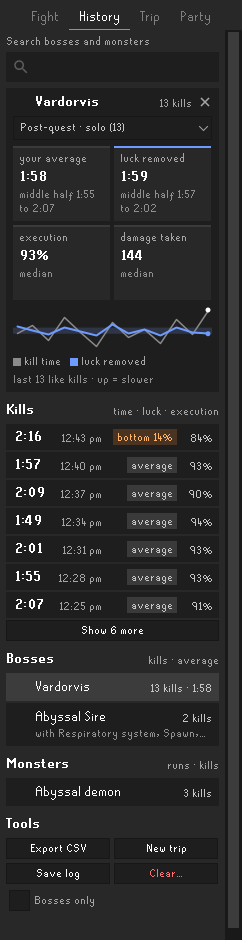
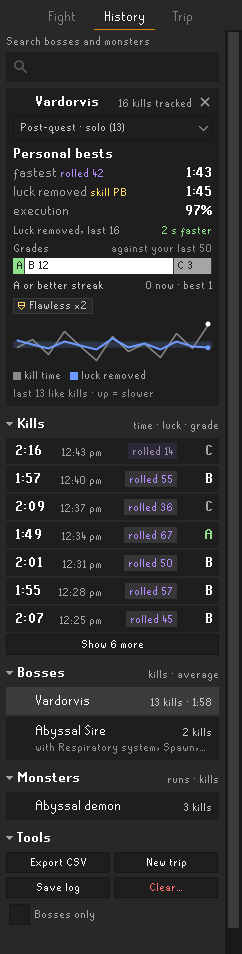
T-197: README pictures from the frozen master: the kill card after and live, History's progress top
One Graardor example throughout (kill 412, grade A, rolled 46); the live card is its own picture, and the
GIF follows the same kill. History's top uses the Vardorvis progress example (T-190), the one record the
side panel's examples have.

Claude-Session: https://claude.ai/code/session_01X18etdM16w4AUQNJwybjo9

diff --git a/src/test/java/com/pvmlogs/ReadmePictures.java b/src/test/java/com/pvmlogs/ReadmePictures.java
@@ -81,11 +81,27 @@ public final class ReadmePictures
 		png(out, "overlay-ruled-kill", overlays(ruledKill()));
 		png(out, "overlay-loadout", overlays(LedgerRows.loadout(g.versus(hammer()), false)));
 
-		png(out, "panel-fight", SidePanelPictures.render(g.panel, 1));
-		png(out, "panel-history", SidePanelPictures.renderHistory(false, 1));
+		png(out, "panel-fight", fightTab(g.panel));
+		png(out, "panel-fight-live", g.live);
+		// T-197: History's top as progress (T-190), from a record (T-187), as a new install with Celebrations on shows it.
+		png(out, "panel-history", SidePanelPictures.renderHistory(SidePanelProgressExamples.source(
+			SidePanelHistoryExamples.history(), SidePanelProgressExamples.vardorvis()), t -> { }, 1));
 		png(out, "panel-trip", SidePanelPictures.renderTrip(SidePanelExamples.trip(), 1));
 
 		gif(out.resolve("panel-fight-live.gif"), killFrames());
+	}
+
+	/**
+	 * T-197: the Fight tab as a new install shows it: the panel's folds follow Celebrations, as the setting drives both in
+	 * game (the same steps as SidePanelPictures' own Celebrations renders).
+	 */
+	static BufferedImage fightTab(SidePanelModel.Input in)
+	{
+		final PvmPerformancePanel panel = new PvmPerformancePanel(null, null, null, null);
+		panel.setCelebrations(in.celebrations);
+		panel.setText(false, false);
+		panel.apply(new PanelSnapshot(SidePanelModel.fight(in), null, SidePanelParty.party(new SidePanelParty.Input())));
+		return SidePanelPictures.draw(panel.tabs(), panel.fightTab(), 1);
 	}
 
 	// ---- Overlays ----
@@ -105,6 +121,11 @@ public final class ReadmePictures
 		final List<LedgerRows.Row> mid;
 		final List<LedgerRows.Row> dead;
 		final SidePanelModel.Input panel;
+		/**
+		 * T-197: the Fight tab's live kill card, about half way through the same kill, drawn then: the input reads the kill
+		 * as it goes on.
+		 */
+		final BufferedImage live;
 		private final Fight fight;
 
 		Graardor()
@@ -120,6 +141,7 @@ public final class ReadmePictures
 			final int drained = kill.defenceNow();
 			mid = LedgerRows.build(LedgerRows.of(kill.room), LedgerRows.State.fight(kill.boss, false, false, false)
 				.withDrain(new LedgerRows.LiveDrain(drained, DEFENCE, 0, MAGIC, MAGIC, 0)), all);
+			live = fightTab(SidePanelKillCardExamples.on(kill.input(new SidePanelWeaponRows())));
 			while (!kill.over())
 			{
 				kill.run(1);
@@ -136,6 +158,23 @@ public final class ReadmePictures
 			panel.killed = true;
 			panel.endMillis = kill.now();
 			panel.average = usual;
+			// T-197: the kill card (T-188) as a new install shows it, Celebrations on, with an illustrative record: KC 412,
+			// your PB 0:31, the 4th fastest of 23 kills tracked, an A (top 15% of your last 23), 3 ticks from an S, and
+			// the badges this kill earns by the record's rules (T-192).
+			SidePanelKillCardExamples.on(panel);
+			panel.kc = 412;
+			final SidePanelModel.Standing st = new SidePanelModel.Standing();
+			st.previousBestClock = 31.2;
+			st.rank = 4;
+			st.ranked = 23;
+			st.grade = "A";
+			st.basis = "top 15% of last 23";
+			st.ticksToNext = 3;
+			st.next = "S";
+			st.previousBestLuckRemoved = 33.0;
+			st.streak = 2;
+			panel.standing = st;
+			SidePanelKillCardExamples.recorded(panel);
 		}
 
 		/** The DPS overlay's `vs` line (T-073), named and coloured as the plugin does it for this fight. */
@@ -301,18 +340,20 @@ public final class ReadmePictures
 	 */
 	static List<Frame> killFrames()
 	{
-		final Kill kill = new Kill();
+		// T-197: the same Graardor kill as the other pictures, with the kill card (Celebrations on, a new install's default).
+		final Kill kill = Kill.graardor();
 		final SidePanelWeaponRows rows = new SidePanelWeaponRows();
 		final PvmPerformancePanel panel = new PvmPerformancePanel(null, null, null, null);
+		panel.setCelebrations(true);
 		final List<BufferedImage> images = new ArrayList<>();
 		while (!kill.over())
 		{
 			kill.run(PvmPerformancePanel.UPDATE_TICKS);
-			panel.apply(new PanelSnapshot(SidePanelModel.fight(kill.input(rows)), null));
+			panel.apply(new PanelSnapshot(SidePanelModel.fight(SidePanelKillCardExamples.on(kill.input(rows))), null));
 			images.add(SidePanelPictures.draw(panel.tabs(), panel.fightTab(), 1));
 		}
 		kill.end();
-		final SidePanelModel.Input dead = kill.input(rows);
+		final SidePanelModel.Input dead = SidePanelKillCardExamples.on(kill.input(rows));
 		dead.ended = true;
 		dead.killed = true;
 		dead.endMillis = kill.now();
